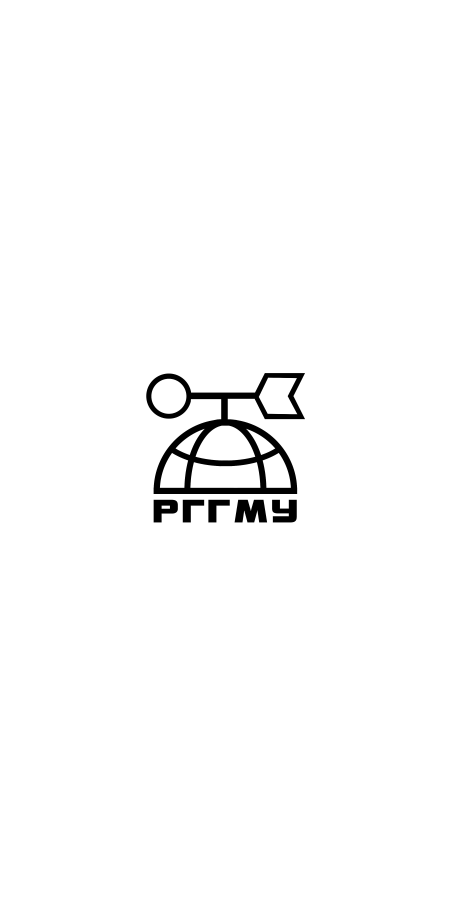
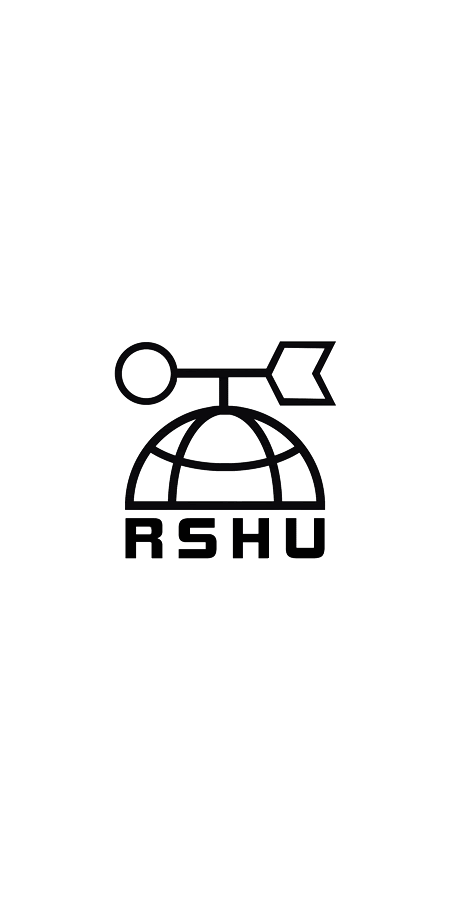
Был изменен фон игрового поля (логотип РГГМУ стал английским). Была добавлена отрисовка цветов заливки блоков игры. Добавлена библиотека рандомных чисел. Все надписи переведены на английский для удобстава написания кода

Changed region(s): [[0.2489, 0.3733, 0.7467, 0.6222]]

diff --git a/main.py b/main.py
@@ -1,5 +1,6 @@
 from tkinter import *
-from tkinter import messagebox
+#from tkinter import massagebox
+from random import choice, randrange
 # Ниже представленны переменные, которые будут использоваться в будующем. Пока что они не используються
 W, H = 10, 20
 TILE = 45
@@ -19,7 +20,7 @@ tk.protocol("WM_DELETE_WINDOW", on_closing) # Обработка функции 
 tk.title("Тетрис РГГМУ") # Название окна
 tk.resizable(0, 0) # Эта функция позмоляет маштабировать окно (Она практически бесполезна, весть картинку в окне масштабировать не получитья)
 tk.wm_attributes("-topmost", 1)
-#tk.iconbitmap("Icons/icon image for tetris")
+
 
 canvas = Canvas(tk, width=RES[0], height=RES[1], bg="black", highlightthickness=0) #Задний фон (черный)
 canvas.pack()
@@ -31,14 +32,26 @@ grid = [canvas.create_rectangle(x * TILE, y * TILE, x * TILE+TILE, y * TILE+TILE
 for item in grid:
     canvas.move(item, 20, 20)
 
+score = 0
+record = "0"
 
-#canvas.create_oval(100, 100, 300, 300, fill="yellow", outline="")
-#canvas.create_oval(120, 120, 280, 280, fill="white", outline="")
+canvas.create_text(535, 780,text="score:", font=("Arial", 30),fill="white", anchor=NW) #Отрисовка текста и счета
+canvas.create_text(550, 840,text=str(score), font=("Arial", 30),fill="white", anchor=NW)
+canvas.create_text(525, 650,text="record:", font=("Arial", 30),fill="gold", anchor=NW)
+canvas.create_text(550, 710,text=record, font=("Arial", 30),fill="gold", anchor=NW)
+canvas.create_text(625, 60,text="Tetris RSHU", font=("Arial", 30),fill="white")
 
-#canvas.create_rectangle(400,100,500,500, fill="lightgreen")
-#canvas.create_rectangle(420,120,480,480, fill="darkgreen", outline="")
+get_color = lambda : (randrange(30, 256), randrange(30, 256), randrange(30, 256))
 
-canvas.create_text(625, 60,text="Тетрис РГГМУ", font=("Arial", 30),fill="white")
+def rgb_to_hex(rgb):
+    return '#%02x%02x%02x' % rgb
 
+#print(rgb_to_hex(get_color()))
+
+for item in grid:
+    canvas.itemconfigure(item, fill=rgb_to_hex(get_color()))
+
+#for item in grid:
+#    canvas.itemconfigure(item, fill="")
 
 tk.mainloop()
